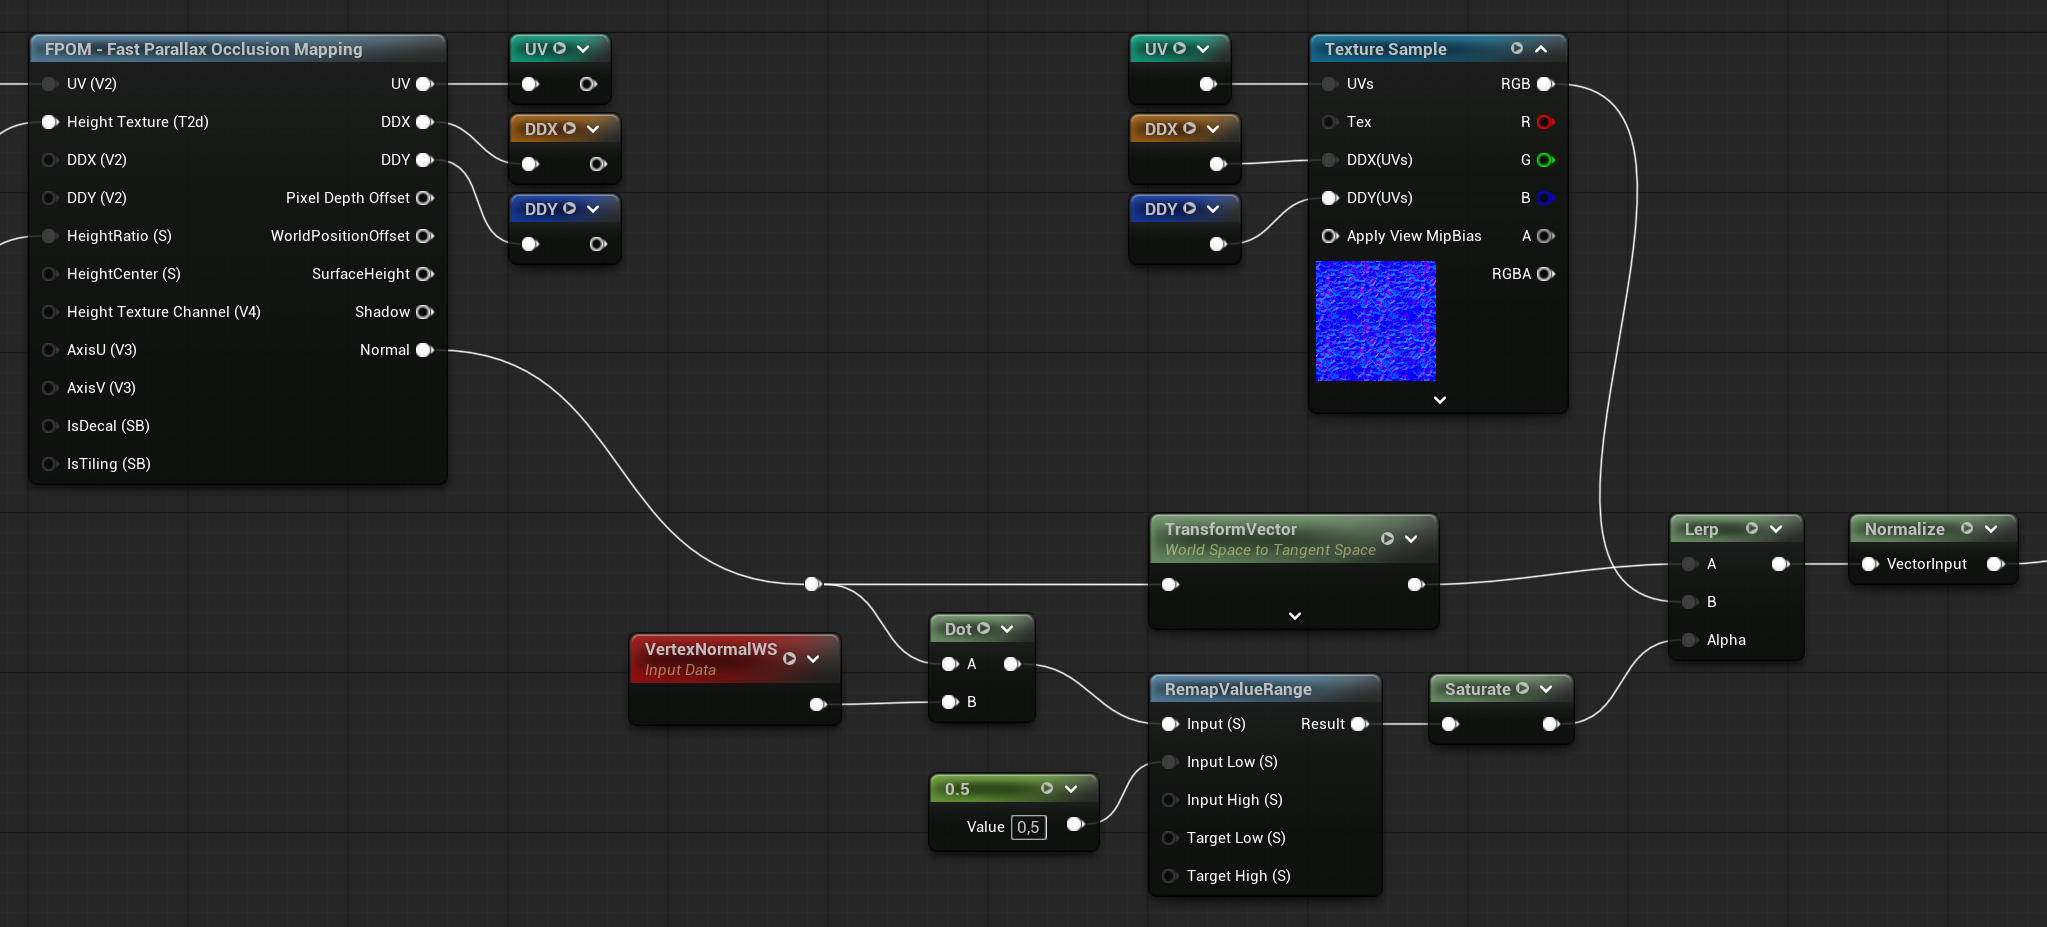
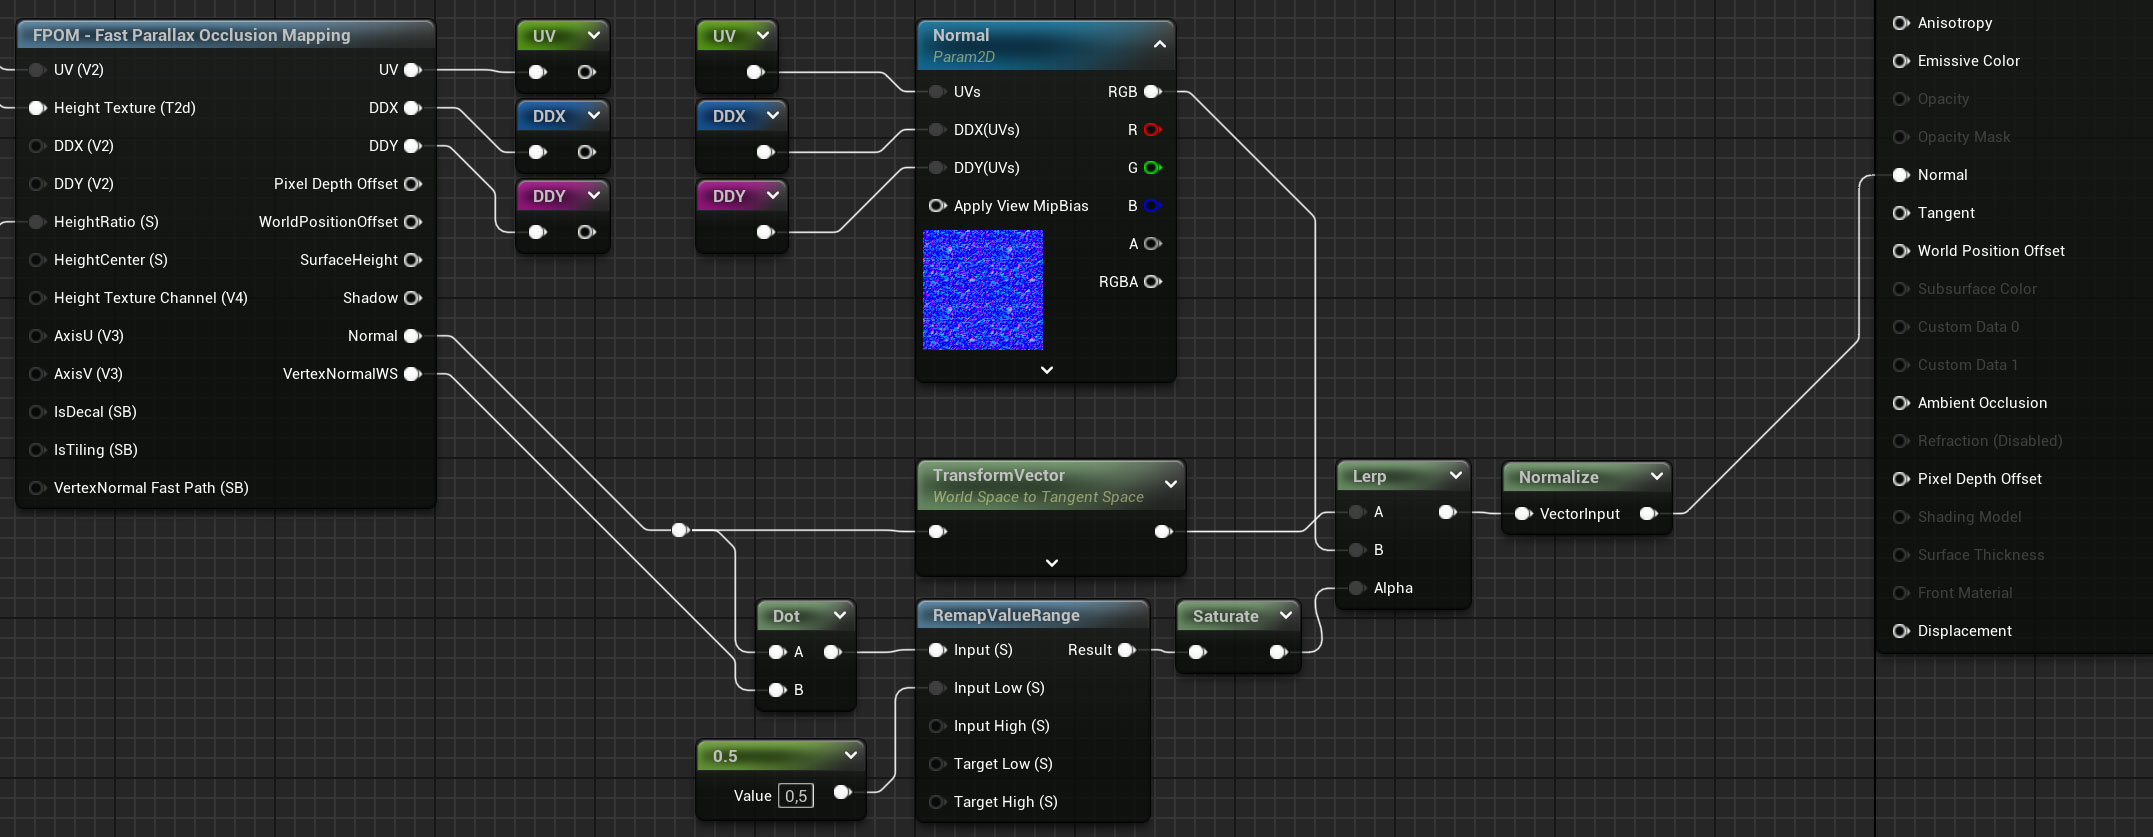
Updated combined normals

diff --git a/CombinedNormals.md b/CombinedNormals.md
@@ -7,48 +7,28 @@ description: Combining the normal output with an existing normal texture.
 
 
 
-# Combined Normals
 
+
+
+# Combined Normals
 
 You can combine normals to use the derived normals where the projection is steep (side of things) and the normal texture for detail where the projection is flat (top of things).
 This produces an overall better result than using either normal alone.
 
-> [!WARNING] Decals
-> Combining normals is slightly different for surface and decal materials.
+[/public/Combined_Normals_Off.jpg|/public/Combined_Normals_On.jpg]
 
 > [!INFO] Detailed Normals
 > Combining normals is only for when you have two normals describing "the same thing". 
-> 
-> If you have a detailed normal texture then use BlendAngleCorrectedNormals node as you would with a standard Normal texture sample.
+> Use BlendAngleCorrectedNormals if you have detailed normals as you would with a standard Normal texture sample.
 
-## Surface materials
+## Setup
 
 [![Material Graph](public/combined_normals.jpg)](/combined_normals.jpg)
 
-### Setup (Surface materials)
-
-> [!WARNING] Tangent Space
-> The Normal output is in World Space. So remember to use a Transform node to convert it to Tanget Space if you material uses Tangent Normals.
-
-The image above shows how to combine them.
-
 1. Do a dot product to get a mask telling us if the current pixel is flat or at an angle.
 2. We remap the value to make it a bit more aggressive
-3. Transform the normal before lerping if the material uses tangent space normals.
+3. (Skip if Decal) Transform the normal before lerping if the material uses tangent space normals.
 4. Normalize the output before plugging it into the material Normal output.
 
-
-
-## Decal materials
-
-[![Material Graph](public/combined_normals_decals.jpg)](/combined_normals_decals.jpg)
-
-### Setup (Decal materials)
-
-The image above shows how to combine them. 
-
-The setup is the same as with surface materials except that we compare against the WorldNormal scene texture instead of the Vertex Normal. We also don't need to do any transforms.
-
-1. Do a dot product to get a mask telling us if the current pixel is flat or at an angle.
-2. We remap the value to make it a bit more aggressive
-3. Normalize the output before plugging it into the material Normal output.
+> [!WARNING] Tangent Space (Surface materials)
+> The Normal output is in World Space. So remember to use a Transform node to convert it to Tanget Space if your surface material uses Tangent Normals.
